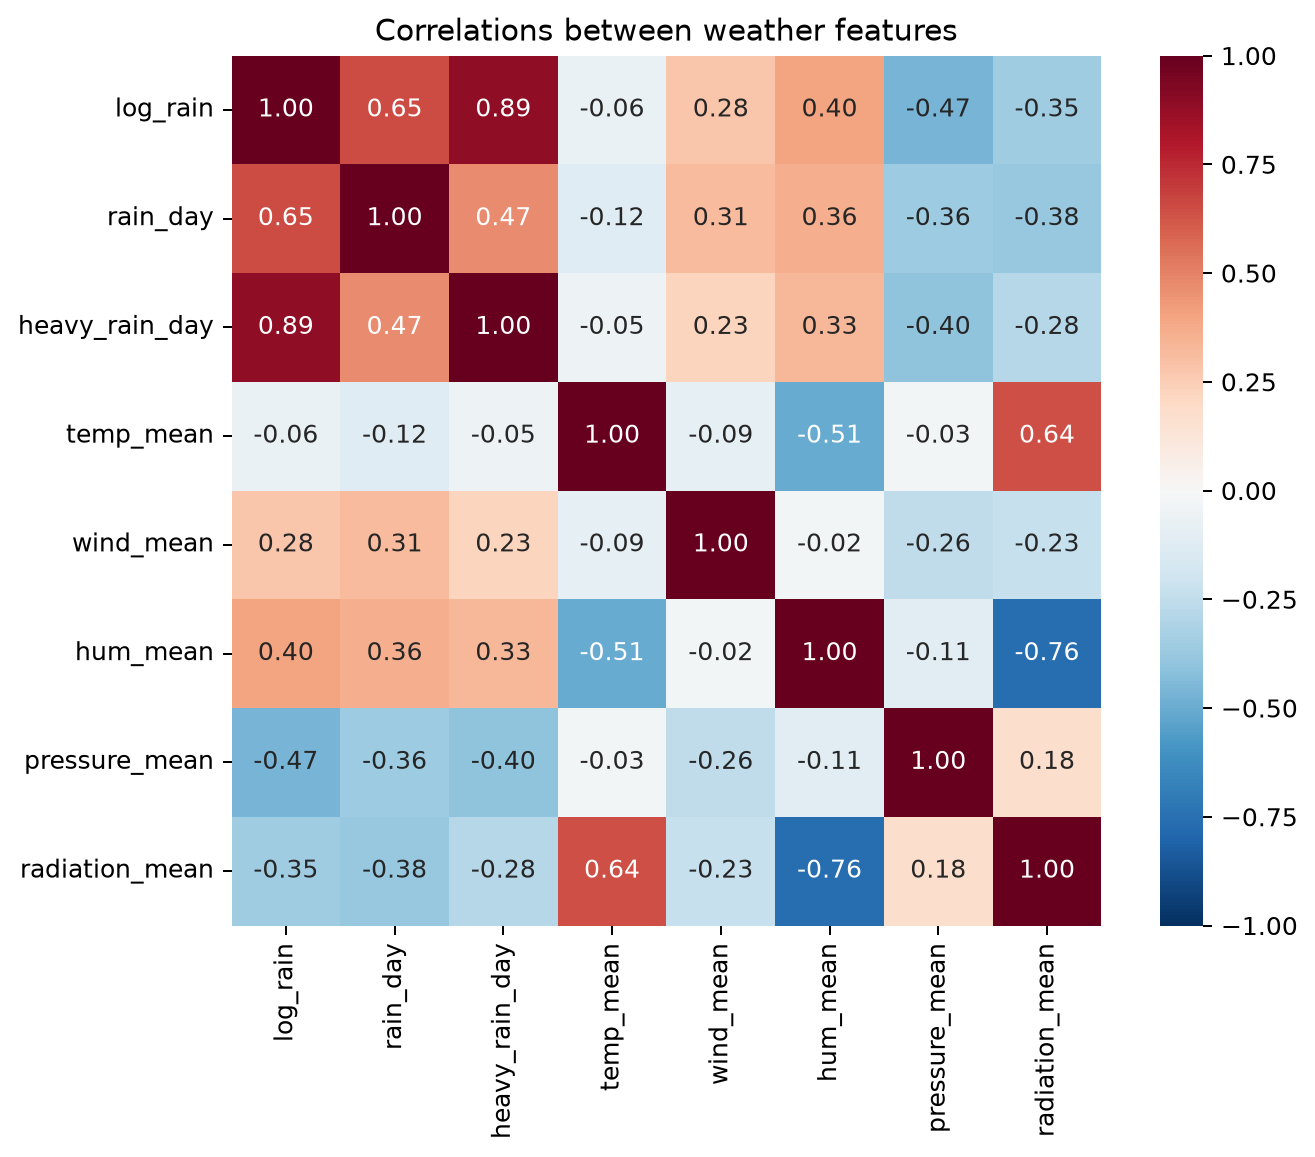
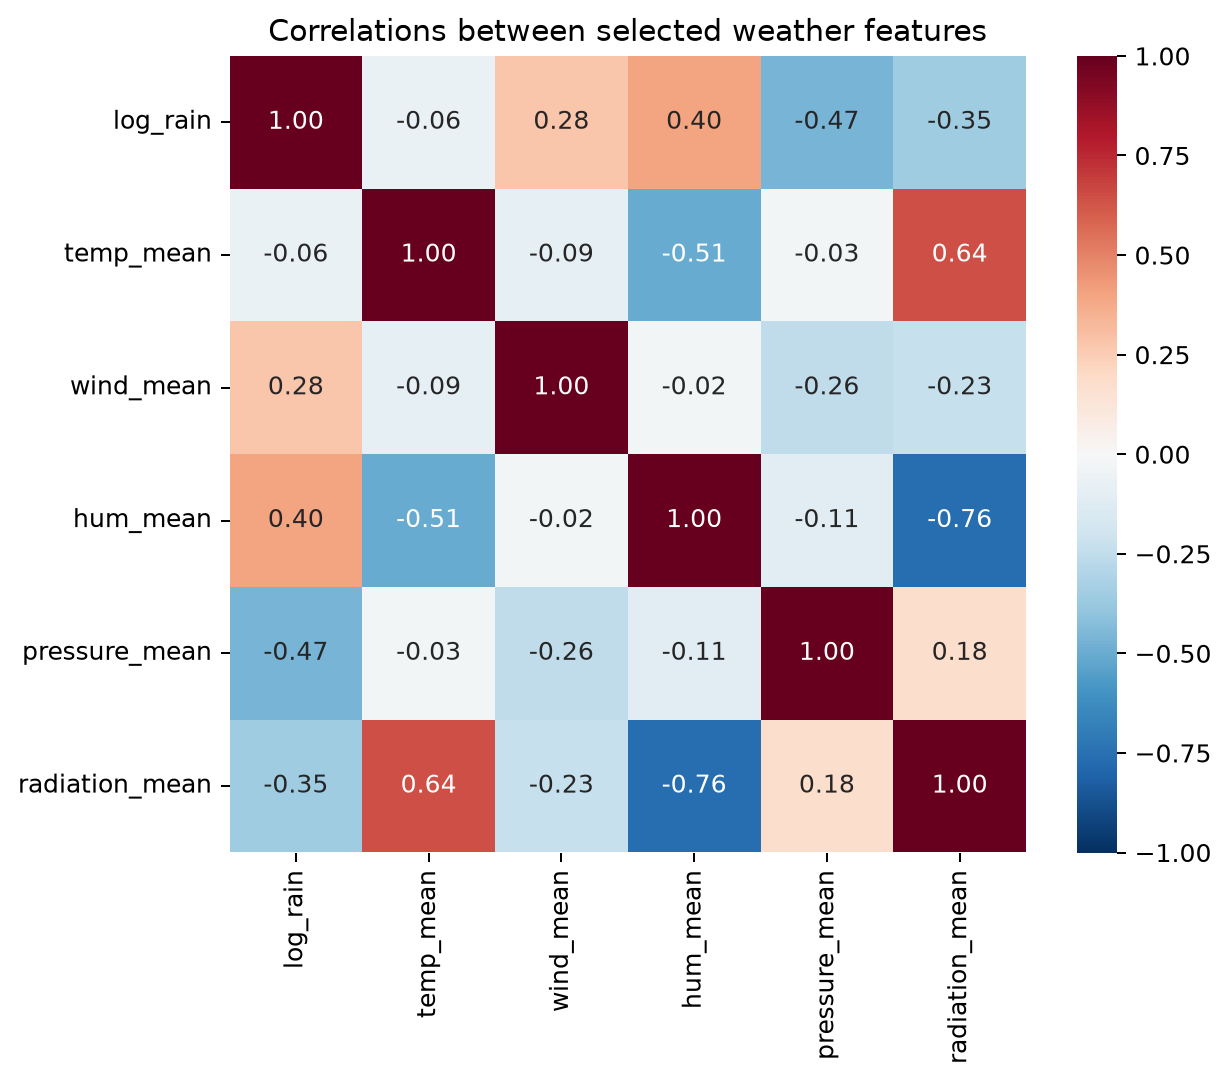
updated weather correlation plot

diff --git a/exploratory_data_analysis.py b/exploratory_data_analysis.py
@@ -138,8 +138,7 @@ plt.tight_layout()
 plt.savefig(p.fig_dir / "fig3_site_heterogeneity.png", bbox_inches="tight", dpi=180)
 plt.close()
 
-corr_cols = ["log_rain", "rain_day", "heavy_rain_day", "temp_mean", "wind_mean", "hum_mean", "pressure_mean",
-             "radiation_mean"]
+corr_cols = ["log_rain", "temp_mean", "wind_mean", "hum_mean", "pressure_mean", "radiation_mean"]
 corr_matrix = day[corr_cols].corr()
 plt.figure(figsize=(8, 6.5))
 sns.heatmap(
@@ -152,7 +151,7 @@ sns.heatmap(
     vmax=1,
     square=True,
 )
-plt.title("Correlations between weather features")
+plt.title("Correlations between selected weather features")
 plt.tight_layout()
 plt.savefig(p.fig_dir / "fig4_weather_correlations.png", bbox_inches="tight", dpi=180)
 plt.close()
